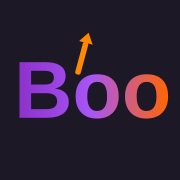
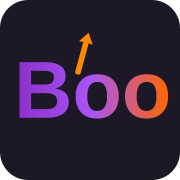
fix: PNG 아이콘을 현재 SVG 디자인으로 재생성하고 서비스 워커 캐시 갱신
- SVG의 Boo 브랜드 디자인(어두운 배경, 보라/오렌지 그라디언트)을 반영하여
  icon-192.png, icon-512.png, apple-touch-icon.png 재생성
- 서비스 워커 캐시 버전 v1 → v2로 업데이트하여 이전 캐시 무효화
- PNG 아이콘 파일을 서비스 워커 STATIC_ASSETS에 추가

https://claude.ai/code/session_014uJuKbgFRiw41Y53bG7Thz

diff --git a/public/sw.js b/public/sw.js
@@ -1,5 +1,5 @@
-const CACHE_NAME = 'multi-eval-note-v1';
-const STATIC_ASSETS = ['/', '/manifest.json', '/icon.svg'];
+const CACHE_NAME = 'multi-eval-note-v2';
+const STATIC_ASSETS = ['/', '/manifest.json', '/icon.svg', '/icon-192.png', '/icon-512.png', '/apple-touch-icon.png'];
 
 self.addEventListener('install', (event) => {
   event.waitUntil(
